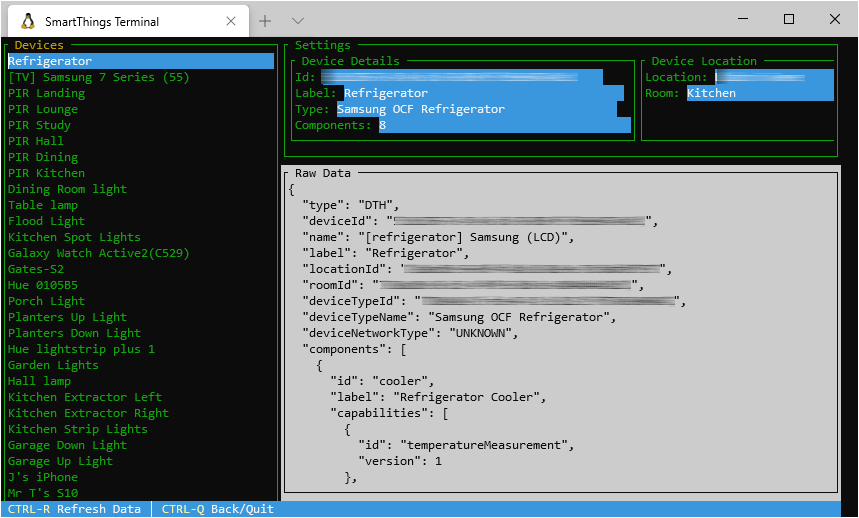
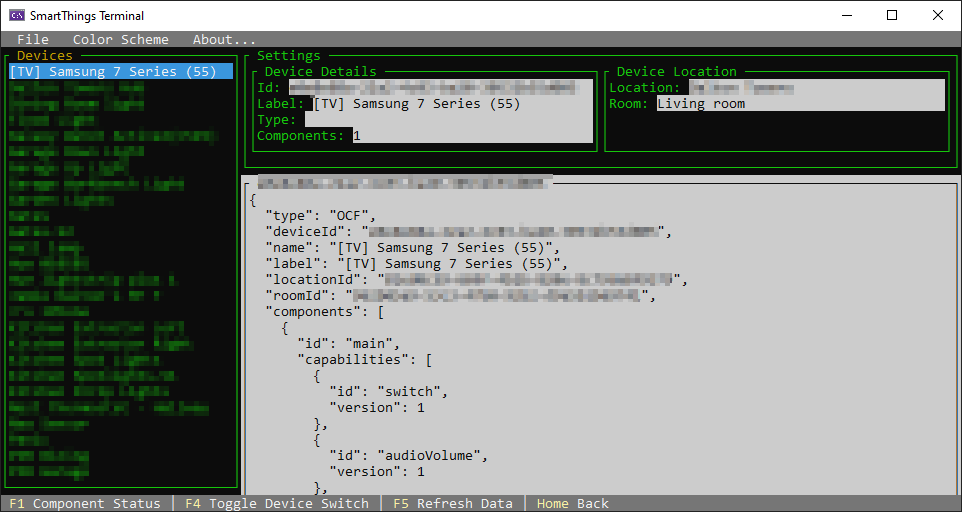
Capability bug fix Update readme

diff --git a/SmartThingsTerminal/Scenarios/Capabilities.cs b/SmartThingsTerminal/Scenarios/Capabilities.cs
@@ -1,6 +1,8 @@
-using SmartThingsNet.Model;
+using Newtonsoft.Json;
+using SmartThingsNet.Model;
 using System;
 using System.Collections.Generic;
+using System.IO;
 using System.Linq;
 using Terminal.Gui;
 using TextField = Terminal.Gui.TextField;
@@ -73,24 +75,15 @@ namespace SmartThingsTerminal.Scenarios
 
         public override void ConfigureSettingsPane()
         {
-            SettingsPane = new FrameView("Settings")
+            SettingsPane = new FrameView("Capability Summary")
             {
                 X = Pos.Right(LeftPane),
                 Y = 1, // for menu
                 Width = Dim.Fill(),
-                Height = 8,
+                Height = 5,
                 CanFocus = false,
                 ColorScheme = Colors.TopLevel,
             };
-
-            _capabilitySummaryFrame = new FrameView("Capability Details")
-            {
-                X = 0,
-                Y = 0,
-                Height = 6,
-                Width = Dim.Fill(),
-            };
-            SettingsPane.Add(_capabilitySummaryFrame);
             ConfigureHostPane("");
         }
 
@@ -98,25 +91,68 @@ namespace SmartThingsTerminal.Scenarios
         {
             CapabilitySummary capability = (CapabilitySummary)selectedItem;
 
-            _capabilitySummaryFrame.RemoveAll();
+            SettingsPane.RemoveAll();
 
             var labelId = new Label("Id:") { X = 0, Y = 0 };
-            _capabilitySummaryFrame.Add(labelId);
+            SettingsPane.Add(labelId);
             var deviceId = new TextField($"{capability.Id}") { X = Pos.Right(labelId) + 1, Y = 0, Width = 40 };
             deviceId.ColorScheme = Colors.Base;
-            _capabilitySummaryFrame.Add(deviceId);
+            SettingsPane.Add(deviceId);
 
             var labelDeviceLabel = new Label("Status:") { X = 0, Y = 1 };
-            _capabilitySummaryFrame.Add(labelDeviceLabel);
+            SettingsPane.Add(labelDeviceLabel);
             var deviceLabel = new TextField($"{capability?.Status}") { X = Pos.Right(labelDeviceLabel) + 1, Y = 1, Width = 40 };
             deviceLabel.ColorScheme = Colors.Base;
-            _capabilitySummaryFrame.Add(deviceLabel);
+            SettingsPane.Add(deviceLabel);
 
             var labelType = new Label("Version:") { X = 0, Y = 2 };
-            _capabilitySummaryFrame.Add(labelType);
+            SettingsPane.Add(labelType);
             var deviceType = new TextField($"{capability.Version}") { X = Pos.Right(labelType) + 1, Y = 2, Width = 40 };
             deviceType.ColorScheme = Colors.Base;
-            _capabilitySummaryFrame.Add(deviceType);
+            SettingsPane.Add(deviceType);
+        }
+
+        public override void GetDirectoriesAndFileView(string currentDirectory)
+        {
+            var files = Directory.GetFiles(currentDirectory, "*.json").Select(t => t.Substring(t.LastIndexOf(@"\") + 1));
+
+            var directoryList = new ListView(files.ToList());
+            directoryList.Width = Dim.Fill();
+            directoryList.Height = Dim.Fill();
+
+            directoryList.OpenSelectedItem += (args) =>
+            {
+                string selectedDirectory = ((ListViewItemEventArgs)args).Value.ToString();
+                ImportCapability($"{currentDirectory}//{selectedDirectory}");
+            };
+
+            FilePicker.Add(directoryList);
+            FilePicker.SetFocus(directoryList);
+        }
+
+        private void ImportCapability(string filePath)
+        {
+            try
+            {
+                string json = File.ReadAllText(filePath);
+                var capability = JsonConvert.DeserializeObject<Capability>(json);
+
+                var capabilityRequest = new CreateCapabilityRequest(capability.Id, capability.Attributes, capability.Commands);
+                STClient.CreateCapability(capabilityRequest);
+                ShowMessage($"Capability added!");
+            }
+            catch (SmartThingsNet.Client.ApiException exp)
+            {
+                ShowErrorMessage($"Error {exp.ErrorCode}{Environment.NewLine}{exp.Message}");
+            }
+            catch (Exception exp)
+            {
+                ShowErrorMessage($"Error {exp.Message}");
+            }
+            finally
+            {
+                ImportItem();
+            }
         }
 
         private void ConfigureCapabilityPane(CapabilitySummary selectedCapability)
@@ -127,7 +163,7 @@ namespace SmartThingsTerminal.Scenarios
                 Y = 0,
                 Height = Dim.Fill(),
                 Width = Dim.Fill(),
-                Title = $"Capability Presentation",
+                Title = $"Capability Details",
                 ColorScheme = Colors.TopLevel
             };
 
@@ -152,7 +188,7 @@ namespace SmartThingsTerminal.Scenarios
         public override void ConfigureStatusBar()
         {
             StatusBar = new StatusBar(new StatusItem[] {
-                new StatusItem(Key.F1, "~F1~ Capability Presentation", () => ToggleCapability()),
+                new StatusItem(Key.F1, "~F1~ Capability Details", () => ToggleCapability()),
                 new StatusItem(Key.F5, "~F5~ Refresh Data", () => RefreshScreen()),
                 new StatusItem(Key.Home, "~Home~ Back", () => Quit())
             });

diff --git a/SmartThingsTerminal/Scenario.cs b/SmartThingsTerminal/Scenario.cs
@@ -314,6 +314,7 @@ namespace SmartThingsTerminal
                     case InstalledApp app:
                     case SceneSummary s:
                     case Subscription sub:
+                    case CapabilitySummary cs:
                         menubar = MenuHelper.GetStandardMenuBar(Top.ColorScheme, typeName, ExportItem, null);
                         break;
                     default:
@@ -521,7 +522,7 @@ namespace SmartThingsTerminal
         public virtual void Run()
         {
             // This method already performs a later automatic shutdown.
-            Application.Run(Top);
+            Application.Run(Top, false);
         }
 
         /// <summary>

diff --git a/SmartThingsTerminal/API/SmartThingsClient.cs b/SmartThingsTerminal/API/SmartThingsClient.cs
@@ -301,6 +301,11 @@ namespace SmartThingsTerminal
             return _capabilitiesApi.GetCapability(capabilityId, capabilityVersion);
         }
 
+        public Capability CreateCapability(CreateCapabilityRequest capabilityRequest)
+        {
+            return _capabilitiesApi.CreateCapability(capabilityRequest);
+        }
+
         public Capability UpdateCapability(string capabilityId, int capabilityVersion, UpdateCapabilityRequest updateCapabilityRequest)
         {
             return _capabilitiesApi.UpdateCapability(capabilityId, capabilityVersion, updateCapabilityRequest);

diff --git a/README.md b/README.md
@@ -17,6 +17,7 @@ This CLI tool has the following features:
 
 | Screen | View | Import | Export | Run commands | Edit | Save | Copy | Delete |
 | ----- |:-----:|:------:|:------:|:------:|:------:|:------:|:------:|:------:|
+| Capabilities | * | n/a | * | n/a | n/a | n/a | n/a | n/a | 
 | Devices | * | n/a | * | * | n/a | n/a | n/a | n/a | 
 | Locations | * | n/a | * | n/a | n/a | * | * | * | 
 | Rooms | * | n/a | * | n/a | n/a | * | * | * | 
@@ -33,7 +34,6 @@ This CLI tool has the following features:
 Hotkeys are dependant on the selected screen:
 
 * F1 Device component status
-* F2 Import
 * F4 Toggle device switch on/off
 * F3 Edit
 * F4 Save
@@ -74,6 +74,10 @@ $ ./STT -t {accesstoken} -s devices
 
 ## Full feature list
 
+* View Capability Summaries
+  * View all of the capability summaries
+  * View capability details
+  * Export capability summary to a json file
 * View Devices
   * View all of the registered devices
   * View device components status
